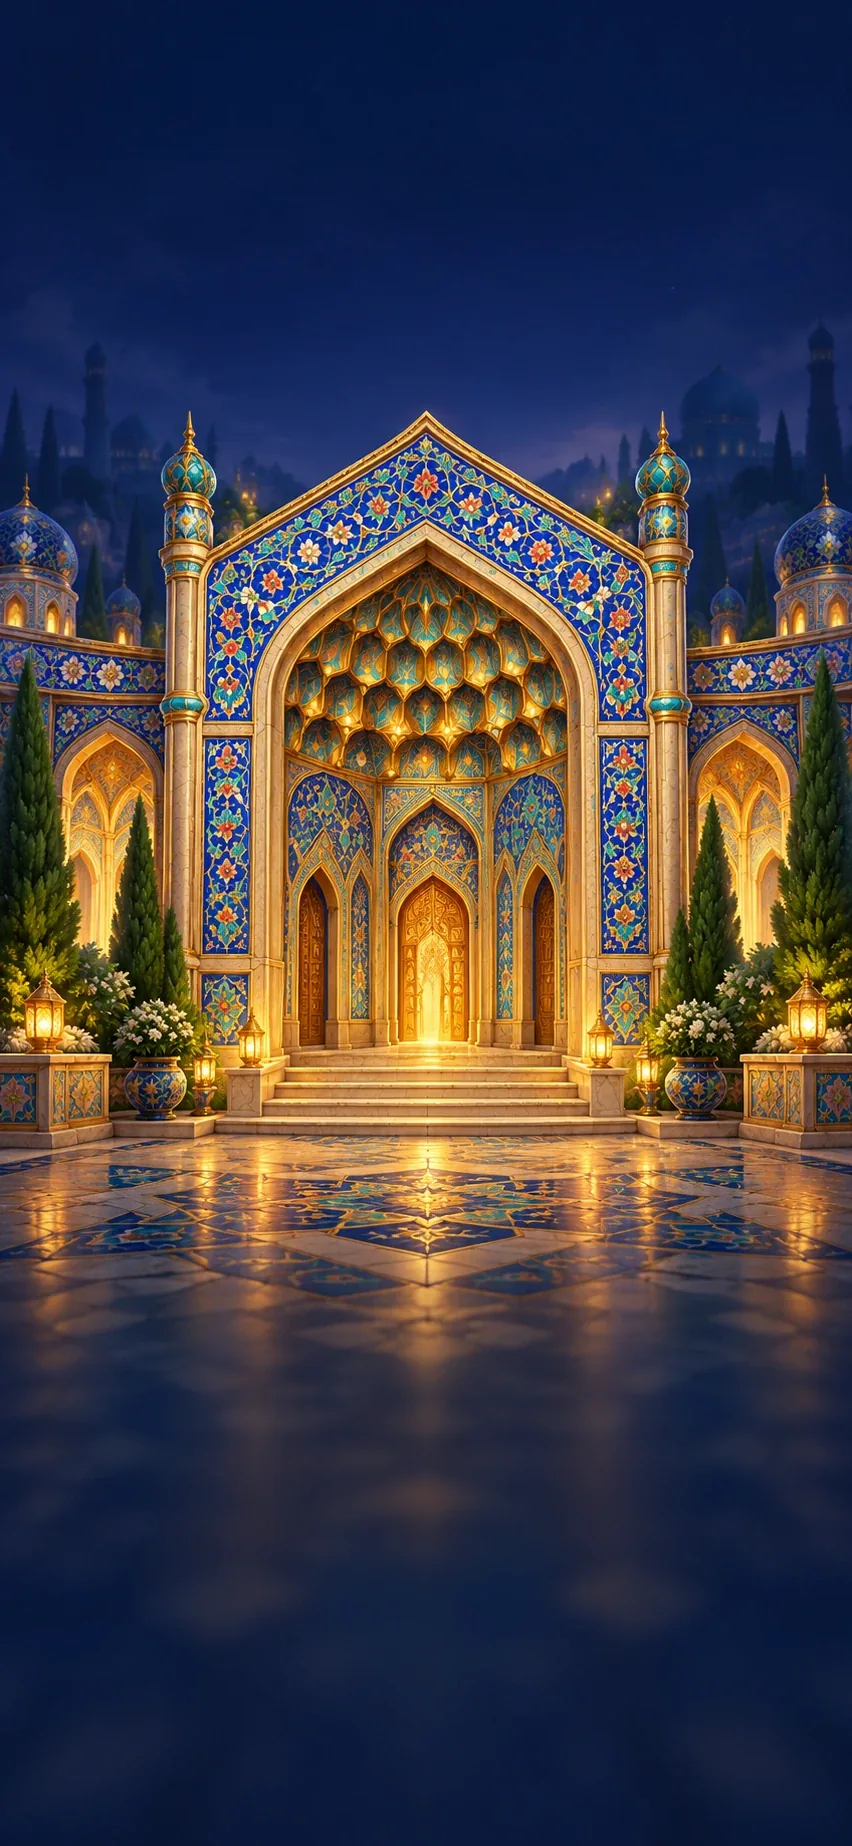
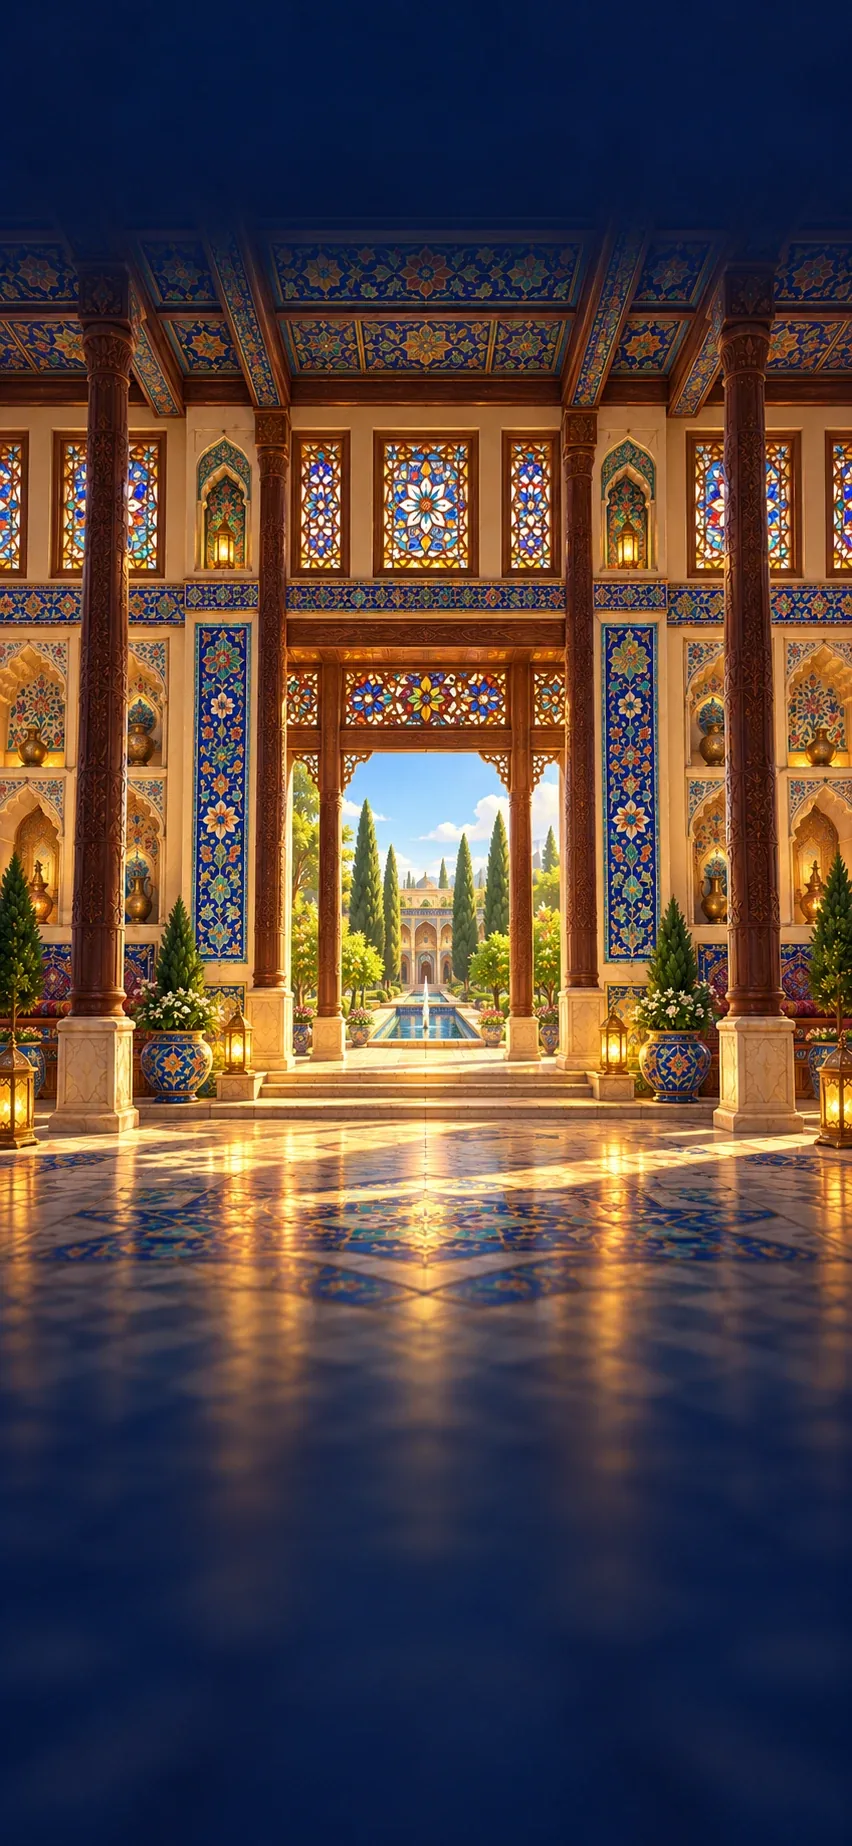
feat(ui): new loading background (the tiled hall opening onto a garden)
A soft navy fade at the top keeps the logo and tagline readable over the painted ceiling.

diff --git a/client/src/styles.css b/client/src/styles.css
@@ -1373,3 +1373,9 @@ html[dir='rtl'] .lb-fill { clip-path: inset(0 0 0 calc((1 - var(--p)) * 100%) ro
 /* ---- splash: the title over the painted tile medallion ---- */
 .sp-logo { position: absolute; left: 6%; right: 6%; top: 3.5%; display: flex; justify-content: center; animation: a-pop .7s cubic-bezier(.2,1.4,.4,1) .2s both; }
 .sp-logo .logo-img { width: 100% !important; max-width: 440px; max-height: 12vh; height: auto; object-fit: contain; filter: drop-shadow(0 6px 16px rgba(0,0,20,.8)); }
+/* the loading art's ceiling starts high: a soft navy fade at the top keeps the logo and tagline readable */
+.ld-art::before { content: ''; position: absolute; inset: 0 0 auto; height: 26%; z-index: 1; pointer-events: none;
+  background: linear-gradient(180deg, rgba(4,16,58,.92) 0%, rgba(4,16,58,.75) 55%, rgba(4,16,58,0) 100%); }
+.ld-logo { z-index: 2; top: 3%; }
+.ld-logo .logo-img { max-height: 11vh; }
+.ld-logo .tagline { text-shadow: 0 2px 4px rgba(0,0,0,.85); }
